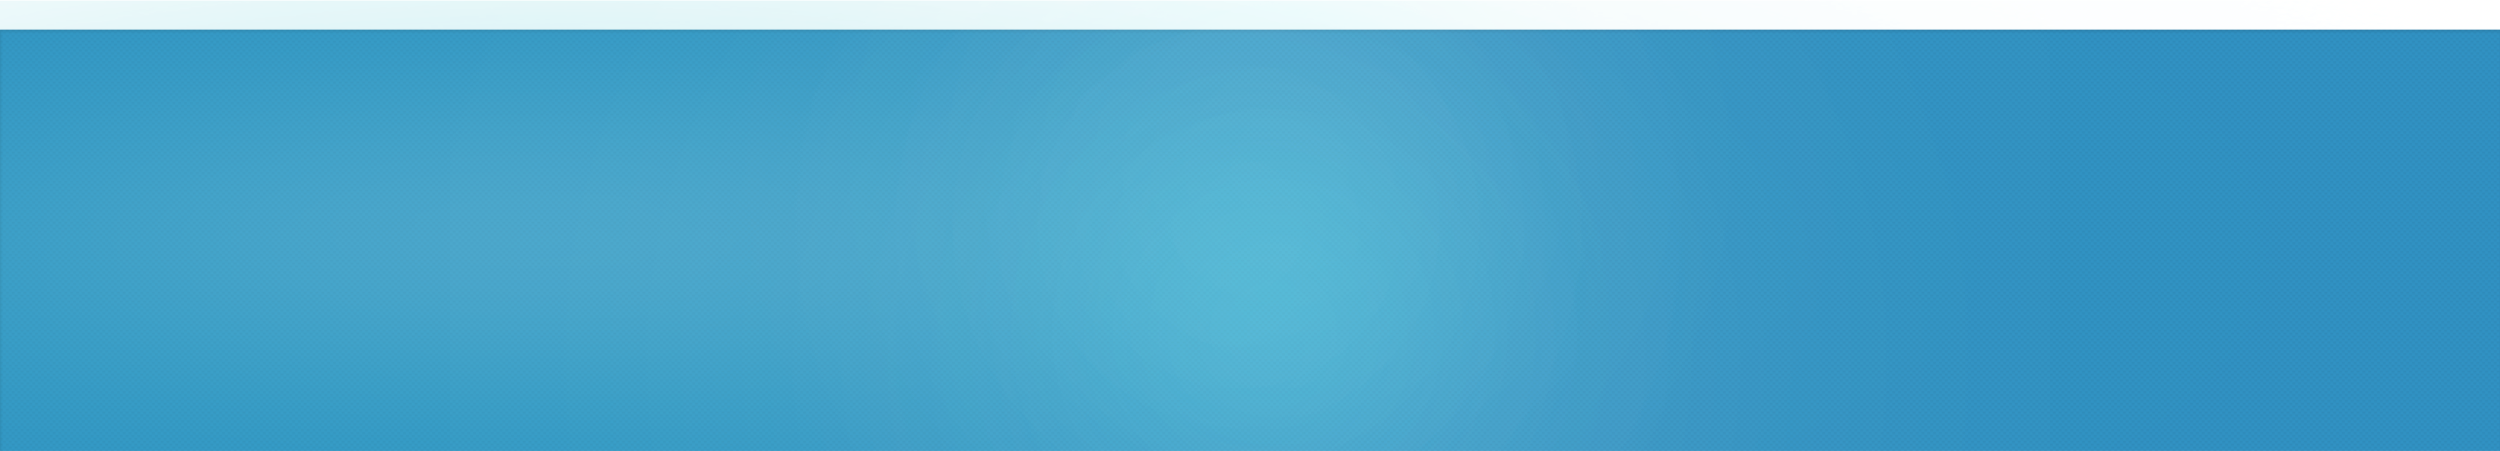
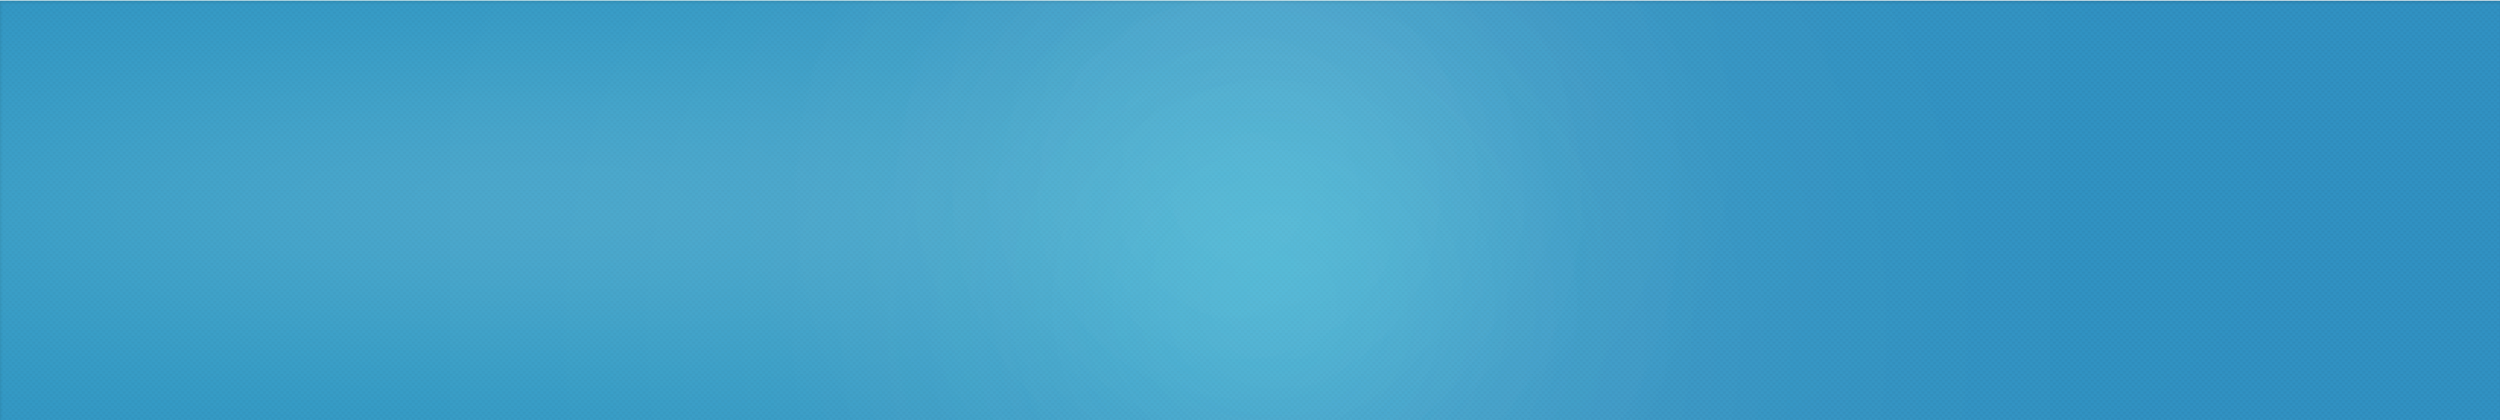
extra

Changed region(s): [[0.0, 0.0, 1.0, 0.0929]]

diff --git a/styles.css b/styles.css
@@ -21,6 +21,14 @@ h2,h3{
      font-weight: bold;
 
 }
+
+select#lang-sel{
+  font-size: 15px;
+border: none;
+width: 50px;
+color: #585951;
+}
+
 #section-main {
     background: url("img/slide-bg-complexity.jpg") center center fixed no-repeat;
     height: 600px;
@@ -70,9 +78,10 @@ float: left;
 
 }
 header{
-
-    padding-bottom: 70px;
+    box-shadow: 0 1px 3px 0 grey;
+    padding-bottom: 80px;
     padding-top: 10px;
+    display: block;
 
 }
 ul.menu li {
@@ -80,6 +89,7 @@ ul.menu li {
     padding-top: 30px;
 }
 nav{
+  padding-left: 10px;
   padding-top: 35px;
   position: static;
 display: inline-block;
@@ -89,15 +99,15 @@ float: left;
 ul.menu li a {
    
     background-color: white;
-    color: black;
+    text-decoration: none;
+    color: #585951;
     padding-left:  8px;
     padding-right:  7px;
     padding-top: 35px;
     text-decoration: none;
+    font-size: 14px;
     border-radius: 4px 4px 0 0;
     float: left;
-    background: url("img/divider.png");
-    background-repeat: no-repeat;
     background-position: left;
     padding: 0 10px;
 }
@@ -129,10 +139,9 @@ display: inline-block;
   height: 180px;
 
     border-width: 5px;
-    background-color: pink;
-    border-radius: 10px;
+background-color: #FE3094;  
   width: 240px;
-    opacity: 0.7;
+    opacity: 0.92;
 
   padding: .5rem 2%;
    margin-top: 40px;
@@ -159,9 +168,9 @@ display: inline-block;
     border-radius: 10px;
 
     border-width: 5px;
-    background-color: orange;
+    background-color:#6DBB44;
   height: 180px;
-  opacity: 0.7;
+  opacity: 0.92;
   width: 240px;
   padding: .5rem 2%;
    margin-top: 40px;
@@ -173,10 +182,10 @@ display: inline-block;
 
   position: relative;
     border-radius: 10px;
-  opacity: 0.7;
+  opacity: 0.92;
 
     border-width: 5px;
-    background-color: yellow;
+    background-color: #FC6001;
   height: 180px;
   width: 240px;
   padding: .5rem 2%;
@@ -198,14 +207,26 @@ section#solution{
 
 
 }
+a{
 
+  text-decoration: none;
+}
 .right-box{
-  padding-top: 0px;
+  padding-top: 10px;
+  padding-left: 30px
   float: left;
 }
 
 .login-link{
-  float: left;
+
+  padding-left: 12px;
+  float: right;
+}
+.login-link a{
+
+  color: #585951;
+
+  text-decoration: none;
 }
 
 
@@ -244,15 +265,16 @@ display: inline-block;
 margin-top: 40px;
 display: inline-block;
 border-radius: 7px;
-background-color: blue;
+background: linear-gradient(to top, #1188C4, #1D8EC6, #2B94C9);
+background-image: linear-gradient(to top, rgb(17, 136, 196), rgb(29, 142, 198), rgb(43, 148, 201));
 color: white;
 text-decoration: none;
-padding: 10px 8px;
+padding: 8px 8px;
 
 }
 
 #section-main .button-link img {
- padding-left:45px; 
+ padding-left:55px; 
 
 }
 

diff --git a/index.html b/index.html
@@ -18,12 +18,15 @@
 	    
 	<nav id="main-nav">
      <ul class="menu">
-           <li><a href="#"> YOUR NEEDS</a></li>
-           <li><a href="#">OUR PORTFOLIO</a></li>
-           <li><a href="#">NEWS &AMP; MEDIA </a></li>
+           <li><a href="#"> YOUR NEEDS</a>
+           <img src="img/divider.png"></li>
+           <li><a href="#">OUR PORTFOLIO</a>
+           <img src="img/divider.png"></li>
+           <li><a href="#">NEWS &AMP; MEDIA </a>
+           <img src="img/divider.png"></li>
            <li><a href="#"> ABOUT COMVERSE</a></li>
     </ul> 
-      </nav>
+    </nav>
  
 			<div class="right-box" > 
 				<div class="login-link" style="float: right">
@@ -40,7 +43,10 @@
 						<option value="Arabic">Ar</option>
 
 					</select>
+
 				</div>
+                <img src="img/divider.png" id="divider">
+
 
 			</div>
 
@@ -66,7 +72,7 @@
 					<h3><span class="u-bold">1st</span> Ever Marketing-Oriented Policy Tool</h3>
 
 				</div>
-				<a href="#" class="button-link">Learn More
+				<a href="#" class="button-link">LEARM MORE
             <img src="img/btnArrow.png">
             </a>
 				<div class="carousel-nav">
